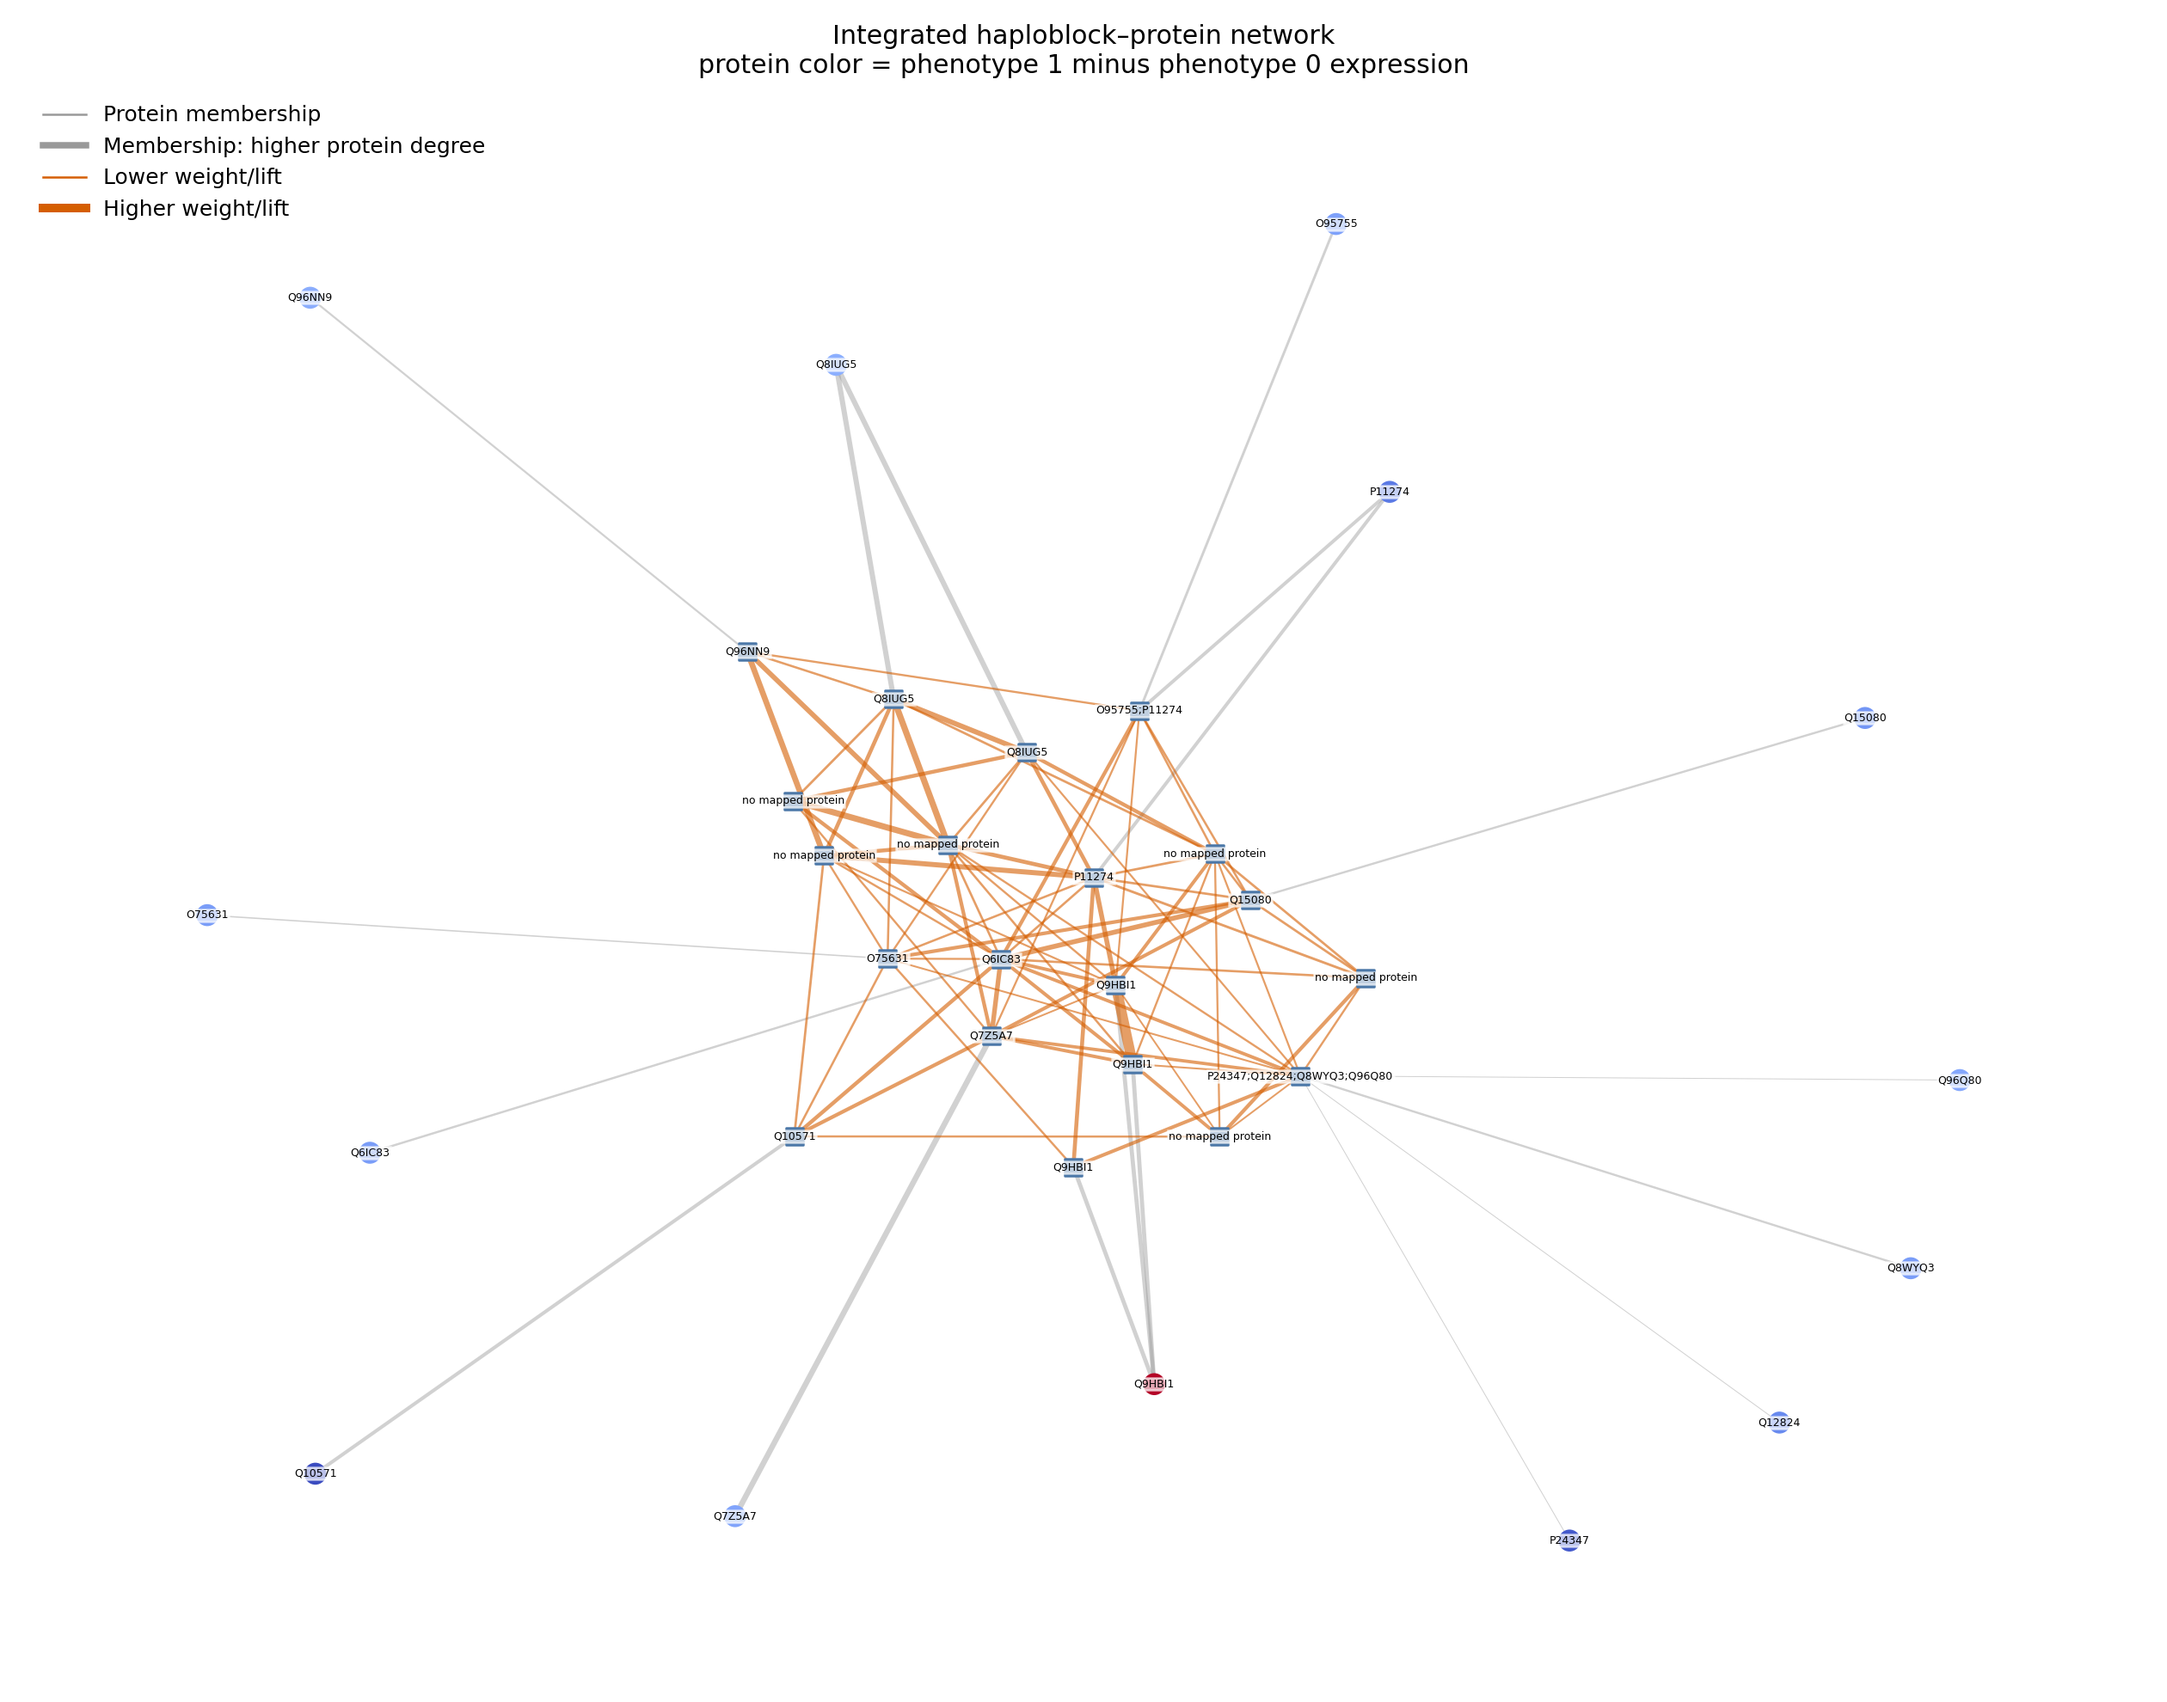
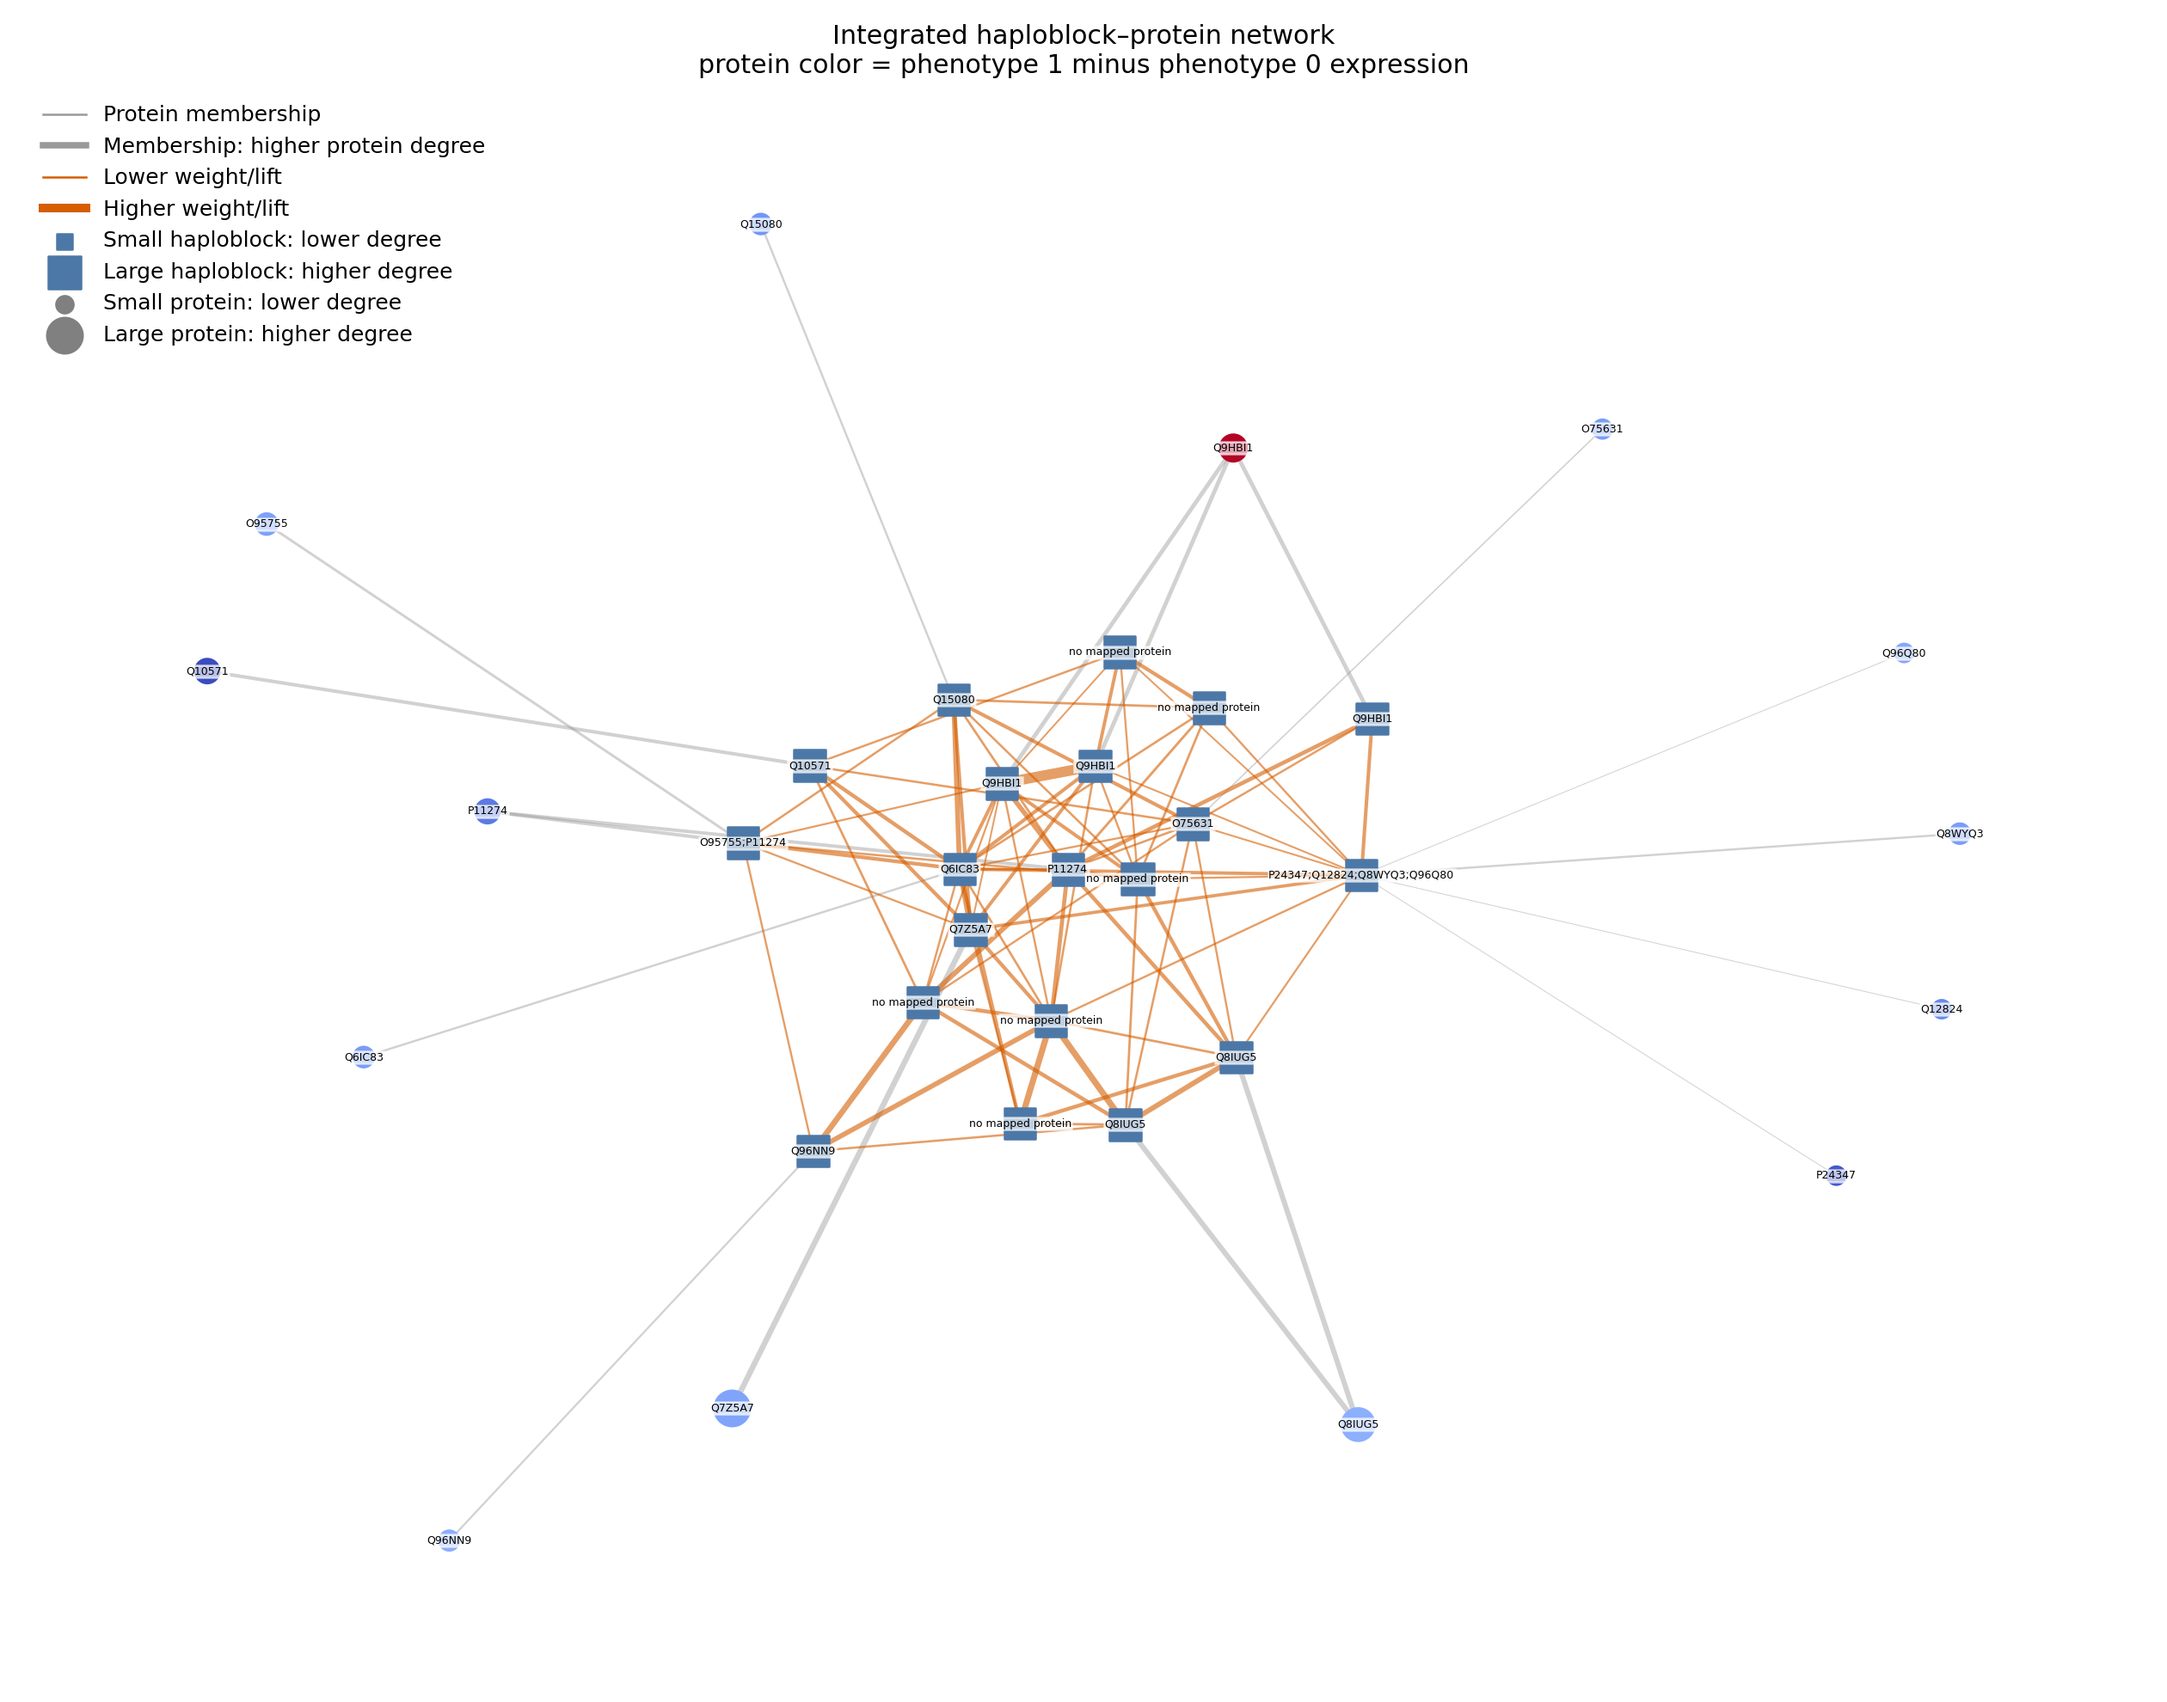
Scale network nodes by degree
Encode haploblock and protein degree in node sizes and document the node and edge statistical encodings in the integrated network legend.\n\nCo-authored-by: Copilot <223556219+Copilot@users.noreply.github.com>

diff --git a/scripts/plot_haplograph_comparison.py b/scripts/plot_haplograph_comparison.py
@@ -104,6 +104,10 @@ def draw_combined(edges: pd.DataFrame, graph_features: pd.DataFrame, output: Pat
     block_nodes = [n for n, d in graph.nodes(data=True) if d["type"] == "haploblock"]
     protein_nodes = [n for n, d in graph.nodes(data=True) if d["type"] == "protein"]
     protein_signal = np.array([graph.nodes[n]["phenotype"] for n in protein_nodes])
+    block_degree = np.array([graph.nodes[n]["degree"] for n in block_nodes])
+    protein_degree = np.array([graph.nodes[n]["degree"] for n in protein_nodes])
+    block_sizes = 45 + 180 * block_degree / max(block_degree.max(), 1)
+    protein_sizes = 55 + 220 * protein_degree / max(protein_degree.max(), 1)
     membership_edges = [(u, v, d) for u, v, d in graph.edges(data=True) if d["relation"] == "contains"]
     membership_degrees = np.log1p([data["degree"] for _, _, data in membership_edges])
     if membership_degrees.size:
@@ -114,9 +118,9 @@ def draw_combined(edges: pd.DataFrame, graph_features: pd.DataFrame, output: Pat
     else:
         membership_widths = []
     nx.draw_networkx_nodes(graph, positions, nodelist=block_nodes, node_color="#4c78a8",
-                           node_shape="s", node_size=65, label="Haploblock", ax=ax)
+                           node_shape="s", node_size=block_sizes, label="Haploblock", ax=ax)
     nx.draw_networkx_nodes(graph, positions, nodelist=protein_nodes, node_color=protein_signal,
-                           cmap="coolwarm", node_size=85, label="Protein", ax=ax)
+                           cmap="coolwarm", node_size=protein_sizes, label="Protein", ax=ax)
     membership = [(u, v) for u, v, d in graph.edges(data=True) if d["relation"] == "contains"]
     cooccurrence = [(u, v) for u, v, d in graph.edges(data=True) if d["relation"] == "co_occurs"]
     cooccurrence_data = [d for _, _, d in graph.edges(data=True) if d["relation"] == "co_occurs"]
@@ -154,6 +158,10 @@ def draw_combined(edges: pd.DataFrame, graph_features: pd.DataFrame, output: Pat
             Line2D([0], [0], color="#999999", lw=3, label="Membership: higher protein degree"),
             Line2D([0], [0], color="#d55e00", lw=1, label="Lower weight/lift"),
             Line2D([0], [0], color="#d55e00", lw=4, label="Higher weight/lift"),
+            plt.scatter([], [], s=55, marker="s", color="#4c78a8", label="Small haploblock: lower degree"),
+            plt.scatter([], [], s=225, marker="s", color="#4c78a8", label="Large haploblock: higher degree"),
+            plt.scatter([], [], s=65, marker="o", color="#808080", label="Small protein: lower degree"),
+            plt.scatter([], [], s=275, marker="o", color="#808080", label="Large protein: higher degree"),
         ],
         frameon=False, loc="upper left",
     )

diff --git a/methods_and_results.md b/methods_and_results.md
@@ -250,15 +250,15 @@ measure, but this figure does not show p-values or confidence intervals.
 ![Figure 6: Integrated haploblock–proteomics network](proteomics/graph_comparison/haplograph_proteomics_network.png)
 
 Squares represent haploblocks labeled with their mapped protein name(s), and
-circles represent labeled proteins. Grey membership lines connect proteins to
-haploblocks; their thickness is proportional to the mapped protein's
-log-scaled haplograph degree, so thicker grey lines indicate more highly
-connected proteins. Orange lines show haploblock co-occurrence, and their
-thickness combines the log-scaled edge weight and lift: thicker orange lines
-indicate higher combined co-occurrence strength. The legend explains these
-line types and thicknesses. Protein color represents the difference in mean
-log2 abundance between phenotype groups. Colors and line widths are visual
-encodings, not statistical significance tests.
+circles represent labeled proteins. Node size is proportional to haplograph
+degree: larger squares are more connected haploblocks and larger circles are
+more connected proteins. Grey membership lines connect proteins to haploblocks;
+their thickness is proportional to the mapped protein's log-scaled haplograph
+degree. Orange lines show haploblock co-occurrence, and their thickness
+combines the log-scaled edge weight and lift. The legend explains node size,
+line types, and line thickness. Protein color represents the difference in
+mean log2 abundance between phenotype groups. Colors, node sizes, and line
+widths are visual encodings, not statistical significance tests.
 
 ### Figure 7 — Graph connectivity versus logistic-regression importance
 
